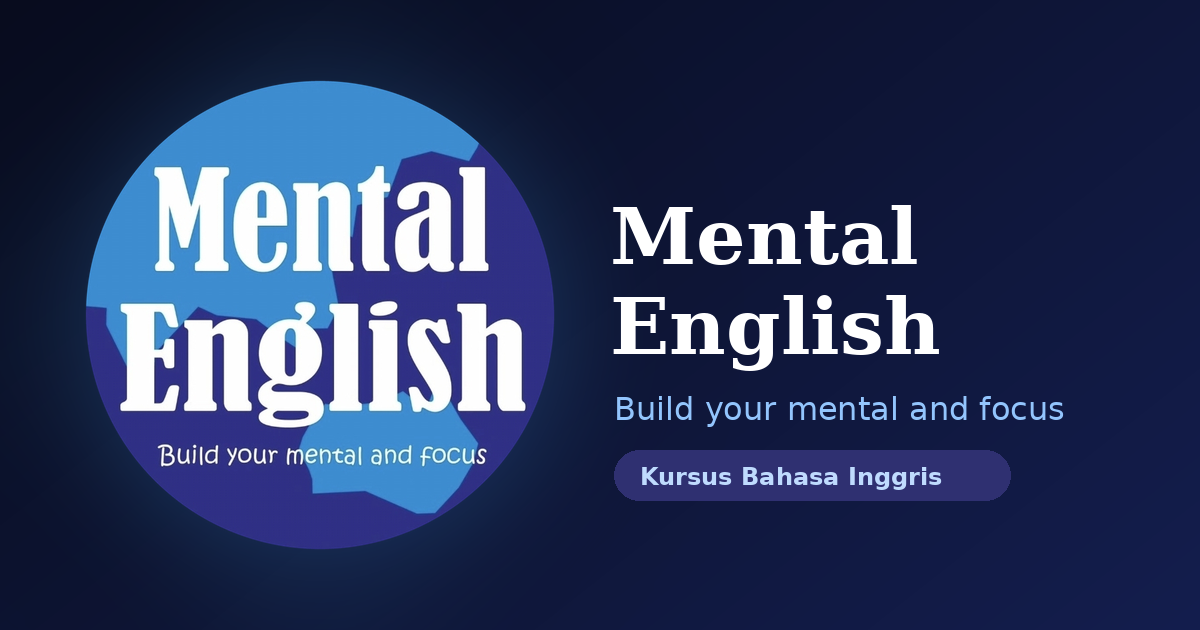
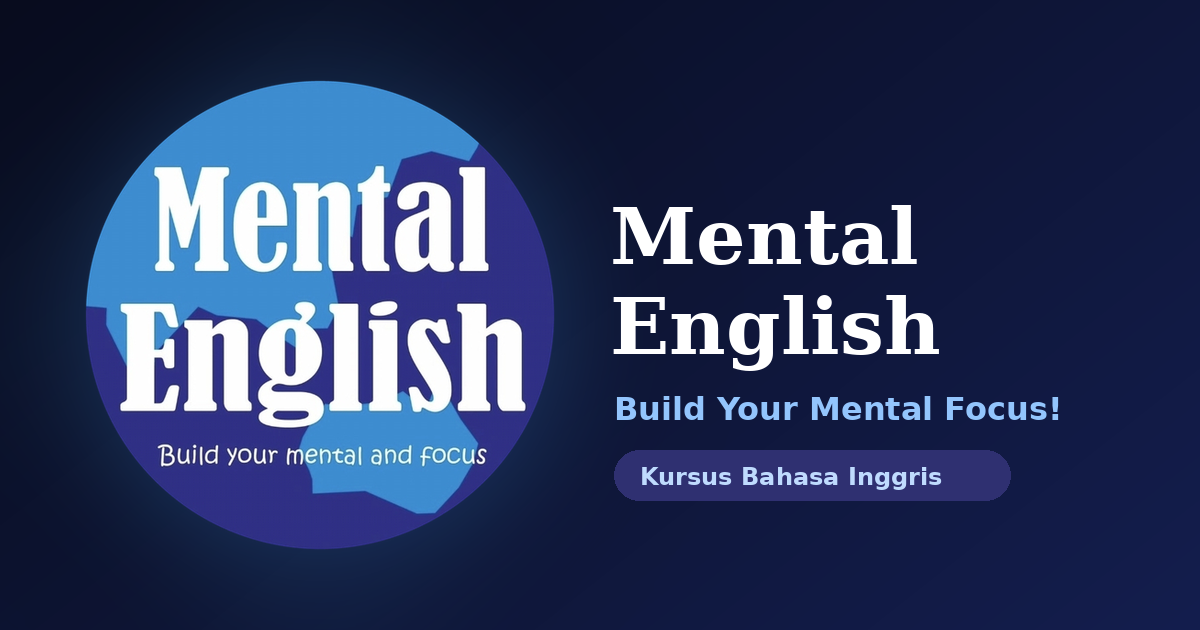
Ganti tagline menjadi "Build Your Mental Focus!"
Diperbarui di landing page, metadata judul/OG, OG image, dan README.

Claude-Session: https://claude.ai/code/session_01C4cfDMMN9gCpuUUxRsaEL9

Changed region(s): [[0.4933, 0.6333, 0.8942, 0.6635]]

diff --git a/frontend/app/page.tsx b/frontend/app/page.tsx
@@ -25,7 +25,7 @@ export default async function Home() {
             <div className="absolute inset-0 -z-10 rounded-full bg-brand-500/40 blur-3xl" />
             <Image src="/logo.png" alt="Logo Mental English" width={168} height={168} priority className="animate-float-slow rounded-full shadow-2xl shadow-brand-500/20" />
           </div>
-          <p className="mb-3 text-sm font-semibold tracking-[0.2em] text-brand-300 uppercase">Build your mental and focus</p>
+          <p className="mb-3 text-sm font-semibold tracking-wide text-brand-300">Build Your Mental Focus!</p>
           <h1 className="font-display text-5xl leading-[1.05] font-extrabold tracking-tight text-white sm:text-6xl">
             Mental <span className="bg-gradient-to-r from-brand-300 to-brand-500 bg-clip-text text-transparent">English</span>
           </h1>

diff --git a/frontend/app/layout.tsx b/frontend/app/layout.tsx
@@ -12,13 +12,13 @@ const DESCRIPTION =
 
 export const metadata: Metadata = {
   metadataBase: new URL(SITE_URL),
-  title: { default: 'Mental English — Build your mental and focus', template: '%s · Mental English' },
+  title: { default: 'Mental English — Build Your Mental Focus!', template: '%s · Mental English' },
   description: DESCRIPTION,
   applicationName: 'Mental English',
   openGraph: {
     type: 'website',
     siteName: 'Mental English',
-    title: 'Mental English — Build your mental and focus',
+    title: 'Mental English — Build Your Mental Focus!',
     description: DESCRIPTION,
     locale: 'id_ID',
   },

diff --git a/README.md b/README.md
@@ -1,6 +1,6 @@
 # Mental English
 
-> Build your mental and focus
+> Build Your Mental Focus!
 
 Website kursus bahasa Inggris **Mental English** — Next.js (frontend), NestJS (API), PostgreSQL. Tema dark mode biru & navy mengikuti logo.
 
